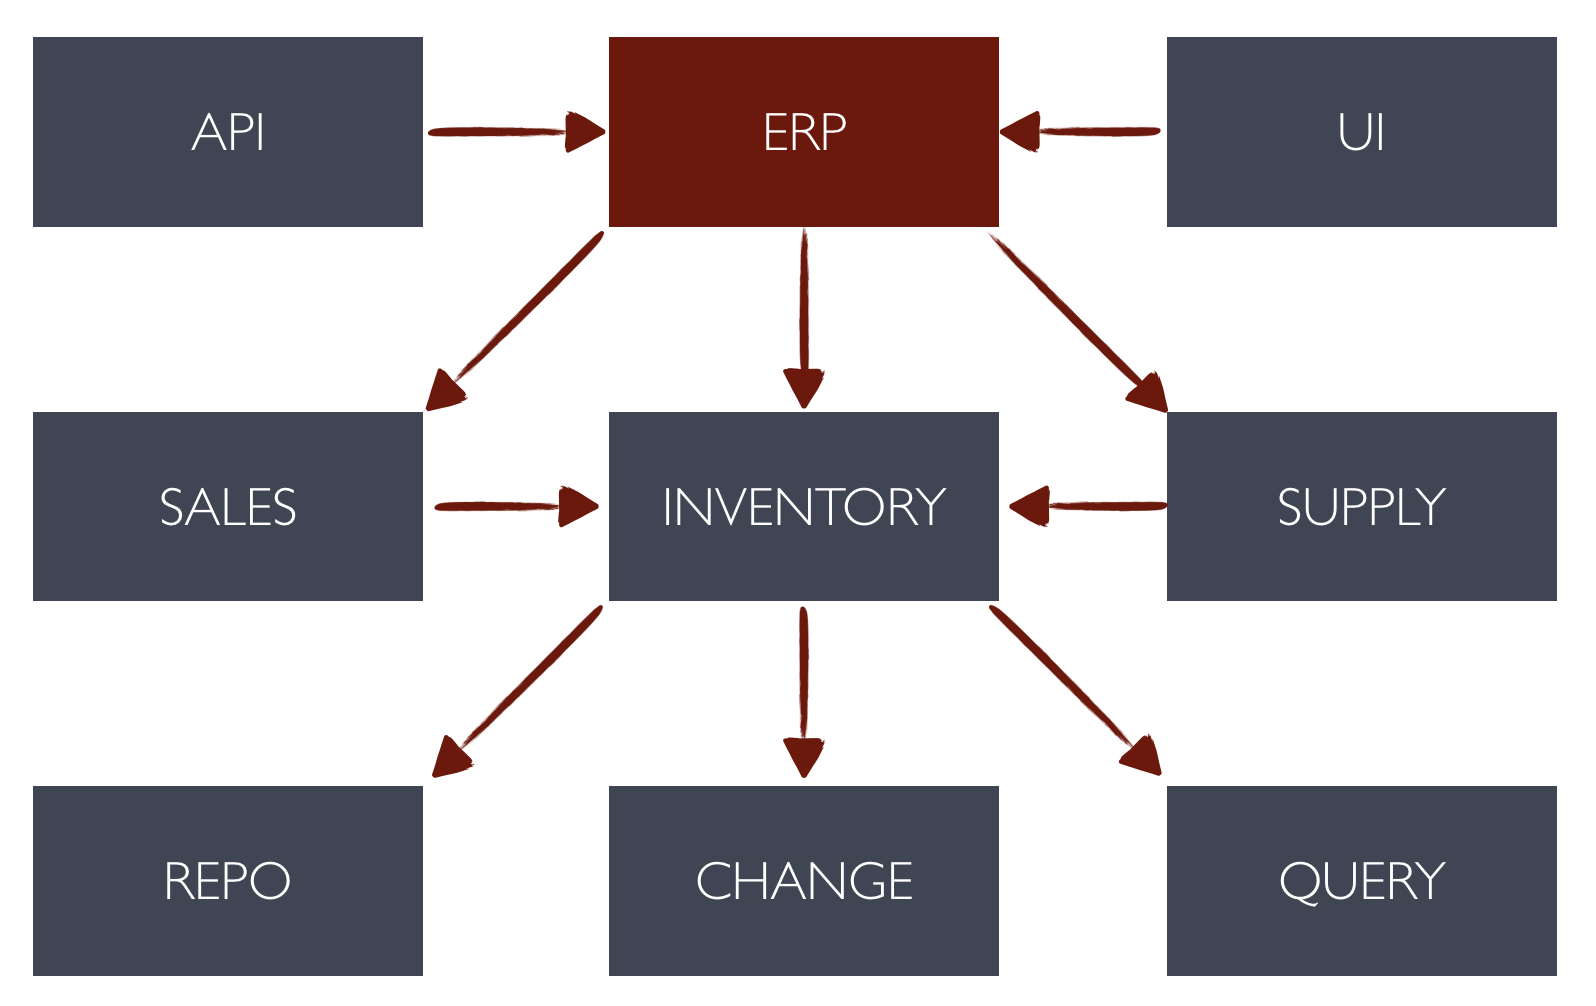
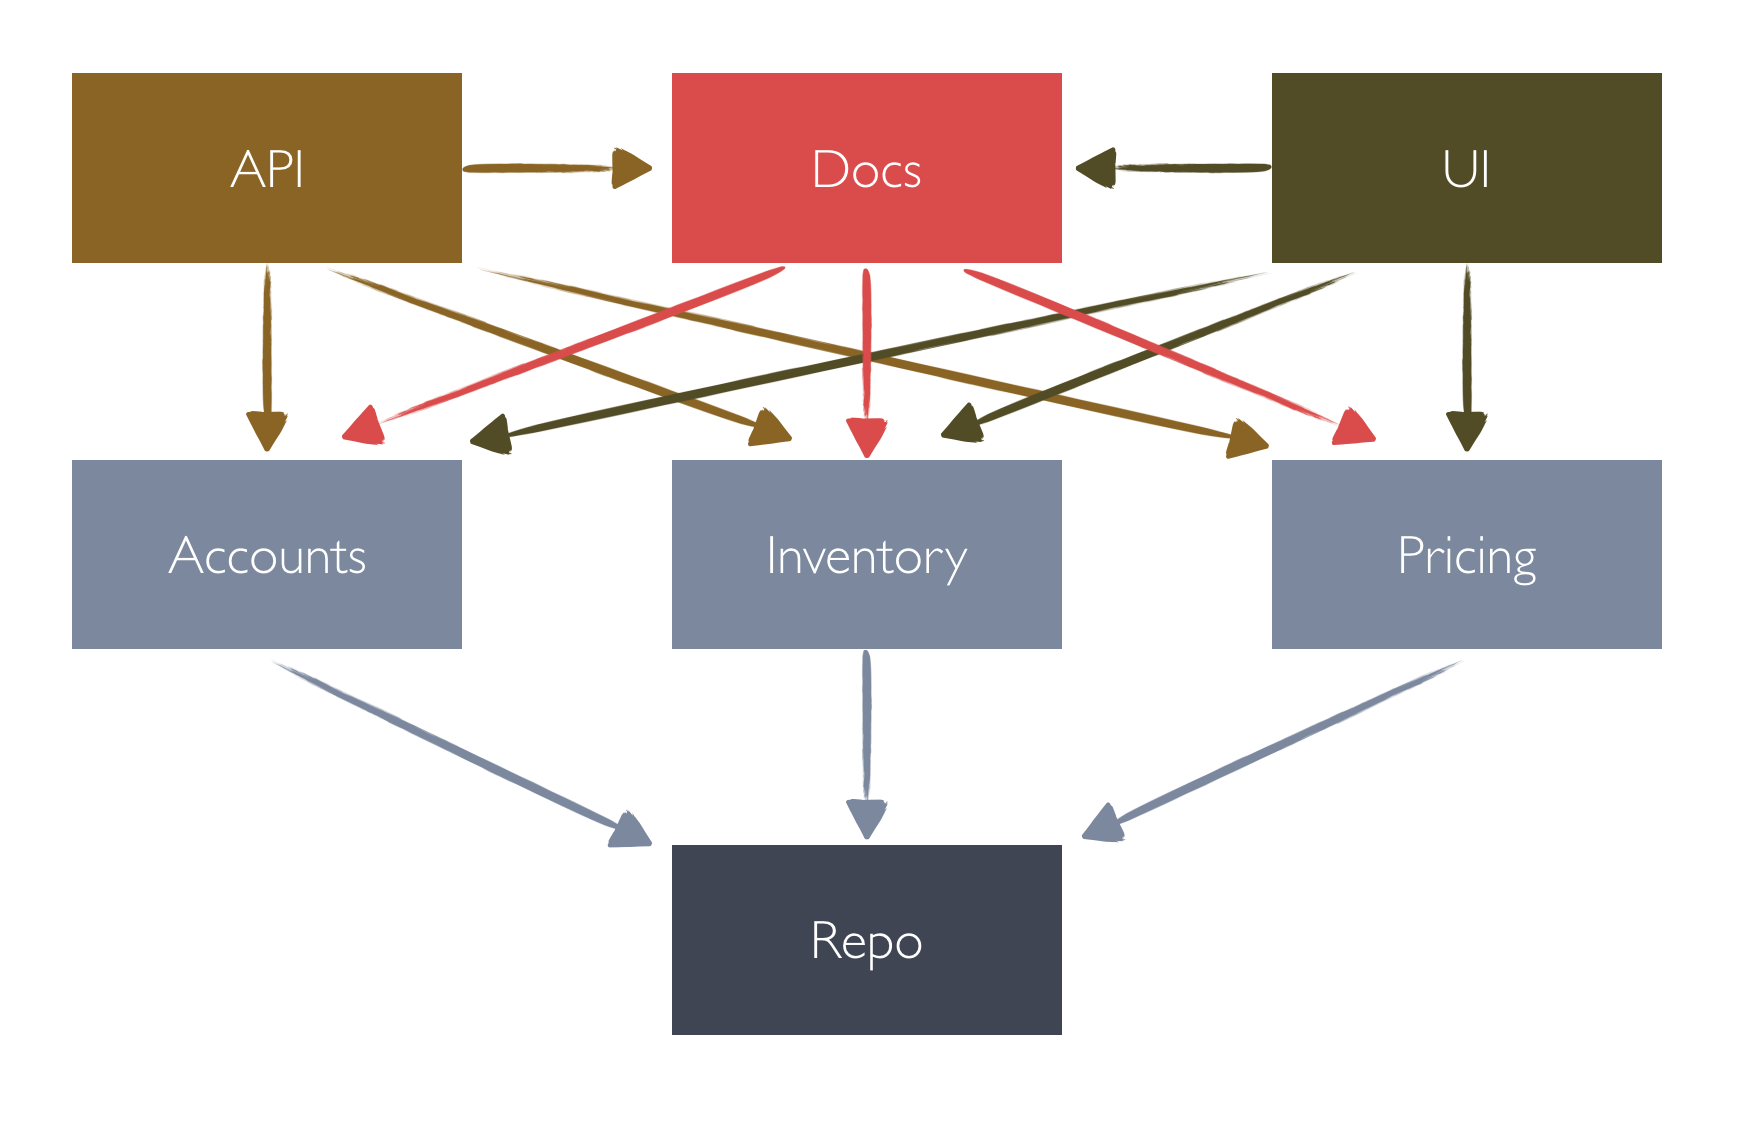
0.7 --exit-on-warnings

diff --git a/spec/axr/scanner_spec.rb b/spec/axr/scanner_spec.rb
@@ -9,17 +9,17 @@ RSpec.describe AxR::Scanner do
     AxR.app.send(:reset)
 
     AxR.app.define do
-      layer Api
-      layer Logic
-      layer Repo, isolated: true
+      layer 'Api'
+      layer 'Logic'
+      layer 'Repo', isolated: true
     end
   end
 
-  let(:result) { described_class.new(file_path: file_path).scan }
+  let(:result) { described_class.new(source: source).scan }
 
   describe '#scan' do
     context 'top level' do
-      let(:file_path) { 'spec/examples/one/lib/api.rb' }
+      let(:source) { File.open 'spec/examples/one/lib/api.rb' }
 
       it 'extract file entities' do
         expect(result).to be_instance_of(AxR::Scanner)
@@ -39,7 +39,7 @@ RSpec.describe AxR::Scanner do
     end
 
     context 'no context' do
-      let(:file_path) { 'spec/examples/one/lib/no_context.rb' }
+      let(:source) { File.open 'spec/examples/one/lib/no_context.rb' }
 
       it 'extract file entities' do
         expect(result).to be_instance_of(AxR::Scanner)
@@ -58,7 +58,7 @@ RSpec.describe AxR::Scanner do
     end
 
     context 'mid level' do
-      let(:file_path) { 'spec/examples/one/lib/logic.rb' }
+      let(:source) { File.open 'spec/examples/one/lib/logic.rb' }
 
       it 'extract file entities' do
         expect(result).to be_instance_of(AxR::Scanner)
@@ -84,6 +84,37 @@ RSpec.describe AxR::Scanner do
         expect(result.warnings[0].message).to eq 'Logic layer should not be familiar with Api'
         expect(result.warnings[0].loc).to     eq 'Api::Controller.new.call'
         expect(result.warnings[0].loc_num).to eq 7
+      end
+    end
+
+    context 'nested modules' do
+      let(:source) do
+        "
+        module Repo
+          module Logic
+          end
+        end
+        ".split("\n")
+      end
+
+      it 'extract file entities' do
+        expect(result).to be_instance_of(AxR::Scanner)
+
+        expect(result.context).to          be_instance_of(AxR::Scanner::Detection)
+        expect(result.context.loc).to      eq 'module Repo'
+        expect(result.context.loc_num).to  eq 2
+        expect(result.context.name).to     eq 'Repo'
+
+        expect(result.dependecies.size).to       eq 1
+        expect(result.dependecies[0]).to         be_instance_of(AxR::Scanner::Detection)
+        expect(result.dependecies[0].loc).to     eq 'module Logic'
+        expect(result.dependecies[0].loc_num).to eq 3
+
+        expect(result.warnings.size).to       eq 1
+        expect(result.warnings[0]).to         be_instance_of(AxR::Scanner::Warning)
+        expect(result.warnings[0].message).to eq 'Repo layer should not be familiar with Logic'
+        expect(result.warnings[0].loc).to     eq 'module Logic'
+        expect(result.warnings[0].loc_num).to eq 3
       end
     end
   end

diff --git a/lib/axr/runner.rb b/lib/axr/runner.rb
@@ -7,16 +7,19 @@ module AxR
   class Runner
     DOT_RB = '.rb'
 
-    attr_reader :target, :formatter
+    attr_reader :target, :formatter, :exit_on_warnings
 
-    def initialize(target = nil, formatter: AxR::Formatters::Default.new)
-      @target    = target
-      @formatter = formatter
+    def initialize(target = nil, formatter: AxR::Formatters::Default.new, exit_on_warnings: false)
+      @target            = target
+      @formatter         = formatter
+      @exit_on_warnings = exit_on_warnings
     end
+
+    alias exit_on_warnings? exit_on_warnings
 
     def invoke
       files_with_warnings = files_to_scan.each_with_object({}) do |file_path, issues|
-        scan_result       = AxR::Scanner.new(file_path: file_path).scan
+        scan_result       = AxR::Scanner.new(source: File.open(file_path)).scan
         issues[file_path] = scan_result.warnings if scan_result.warnings.any?
 
         formatter.single_file(scan_result, file_path)
@@ -24,7 +27,7 @@ module AxR
 
       formatter.summary(files_to_scan, files_with_warnings)
 
-      # exit 1 if files_with_warnings.any?
+      exit 1 if exit_on_warnings? && files_with_warnings.any?
 
       files_with_warnings
     end

diff --git a/lib/axr/cli.rb b/lib/axr/cli.rb
@@ -4,15 +4,18 @@ require 'thor'
 
 module AxR
   class CLI < Thor
-    desc 'check PATH', 'Start AxR runner'
+    desc 'check PATH',           'Start AxR runner'
+    desc '--load APP_INIT_PATH', 'Specify file to load your ruby application'
+    desc '--exit-on-warnings',   'Finish with status code 1 on any warnings'
 
-    option :format # TODO: Add formats
-    option :load   # TODO: Add formats
+    option :format # TODO: Add more output formats
+    option :load
+    option :'exit-on-warnings'
 
     def check(pattern = nil)
       $LOAD_PATH << Dir.pwd
       require options['load'] if options['load']
-      AxR::Runner.new(pattern).invoke
+      AxR::Runner.new(pattern, exit_on_warnings: !options['exit-on-warnings'].nil?).invoke
     end
   end
 end

diff --git a/lib/axr/scanner.rb b/lib/axr/scanner.rb
@@ -5,10 +5,10 @@ require_relative 'scanner/warning'
 
 module AxR
   class Scanner
-    attr_reader :file_path, :context, :dependecies, :warnings
+    attr_reader :source, :context, :dependecies, :warnings
 
-    def initialize(file_path:)
-      @file_path   = file_path
+    def initialize(source: [])
+      @source      = source
       @dependecies = []
       @warnings    = []
       @context     = nil
@@ -16,7 +16,7 @@ module AxR
 
     # rubocop:disable Metrics/AbcSize
     def scan
-      File.open(file_path).each.with_index do |line, index|
+      source.each.with_index do |line, index|
         loc_num = index + 1
 
         line_detection    = AxR.app.layer_names.detect { |layer| line.include?(layer) }

diff --git a/spec/axr/runner_spec.rb b/spec/axr/runner_spec.rb
@@ -27,6 +27,14 @@ RSpec.describe AxR::Runner do
         expect(result[file_path][0]).to   be_instance_of(AxR::Scanner::Warning)
       end
     end
+
+    context 'with exit_on_warnings' do
+      it 'exit with SystemExit' do
+        runner = described_class.new('spec/examples/one/lib/logic.rb', exit_on_warnings: true)
+
+        expect { runner.invoke }.to raise_error(SystemExit)
+      end
+    end
   end
 
   describe '#files_to_scan' do

diff --git a/lib/axr/version.rb b/lib/axr/version.rb
@@ -1,5 +1,5 @@
 # frozen_string_literal: true
 
 module AxR
-  VERSION = '0.6.2'
+  VERSION = '0.7.0'
 end

diff --git a/README.md b/README.md
@@ -2,11 +2,12 @@
 
 **Ruby architecture for simplicity and team adoption**
 
-Architecture is hard. It’s very easy to build a complex system; much harder to build a simple and adaptable one. The code doesn't matter and coding for the sake of writing code is foolish.
+Architecture's hard. It’s very easy to build a complex system. Much harder to build a simple and adaptable solution. The code doesn't matter. Coding for the sake of writing code is foolish.
 
-Few of us get to write software that survives 5-10 years or longer. 90% of our work is garbage that becomes obsolete 1-3 years after release. Most of our work hours are wasted on features that never get shipped.
+Only a few of us get to write software that survives 5-10 years or longer. 90% of our work is garbage that becomes obsolete in 1-3 years after release. Most of our work hours are wasted on features that will never be useful.
 
-This is just reality.
+This is just a reality.
+
 
 (c) Volodya Sveredyuk
 
@@ -28,7 +29,7 @@ bundle install
 
 ## DSL
 
-In your ruby app: (for rails app put it into `config/initializers`)
+In your ruby app: (for rails app put it into `config/initializers/axr.rb` file)
 ```ruby
 require 'axr'
 
@@ -104,6 +105,11 @@ Run for a specific file
 axr lib/adapters/youtube.rb
 ```
 
+Finish scanning with status code 1 in case of any warnings (you can use in CI environment to fail pipeline step)
+```sh
+axr check --exit-on-warning`
+```
+
 ## More examples
 
 **ERP system**
@@ -111,20 +117,24 @@ axr lib/adapters/youtube.rb
 <img src="docs/images/erp_example.png" alt="drawing" width="500"/>
 
 ```ruby
-require 'axr'
+if Rails.env.development? || Rails.env.test?
+  require 'axr'
 
-AxR.app.define(isolated: true) do
-  layer 'Api',    familiar_with: ['ERP']
-  layer 'UI',     familiar_with: ['ERP']
-  layer 'ERP',    familiar_with: %w[Inventory Sales Supply]
-  layer 'Sales',  familiar_with: 'Inventory'
-  layer 'Supply', familiar_with: 'Inventory'
-  layer 'Repo'
-  layer 'Change'
-  layer 'Query'
+  AxR.app.define(isolated: true) do
+    layer 'UI',         familiar_with: %w[Docs Inventory Production]
+    layer 'API',        familiar_with: %w[Docs Inventory Production]
+    layer 'Docs',       familiar_with: %w[Inventory Accounts Repo]
+    layer 'Accounts',   familiar_with: %w[Repo]
+    layer 'Inventory',  familiar_with: %w[Repo]
+    layer 'Production', familiar_with: %w[Repo]
+    layer 'Repo'
+  end
 end
+
 ```
 
 ### TODO
 - Add sublayers
-- Add `axr check --exit-on-warning` cli flag
+- Add rubocop cop
+- Add more app examples
+- Migrate to AST analyzer
